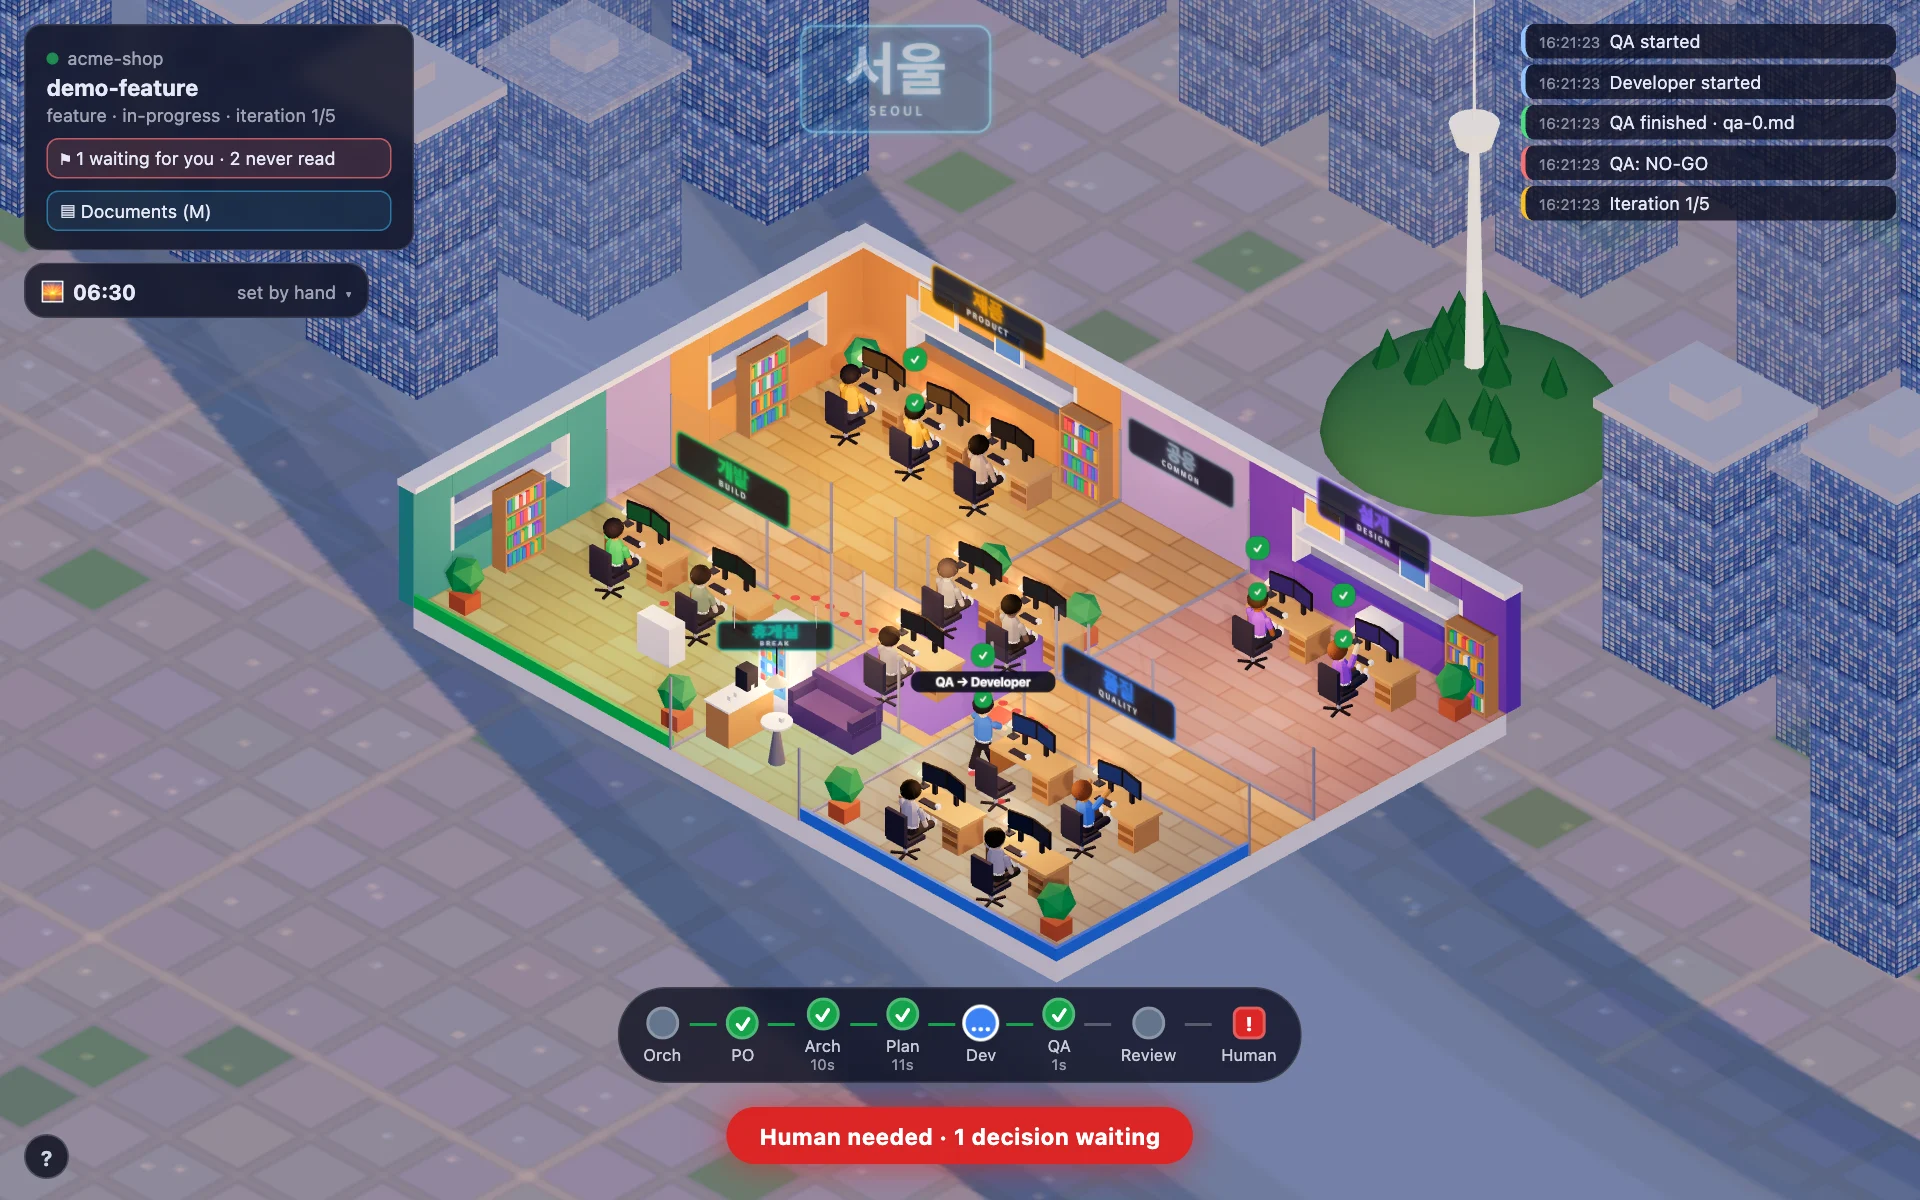
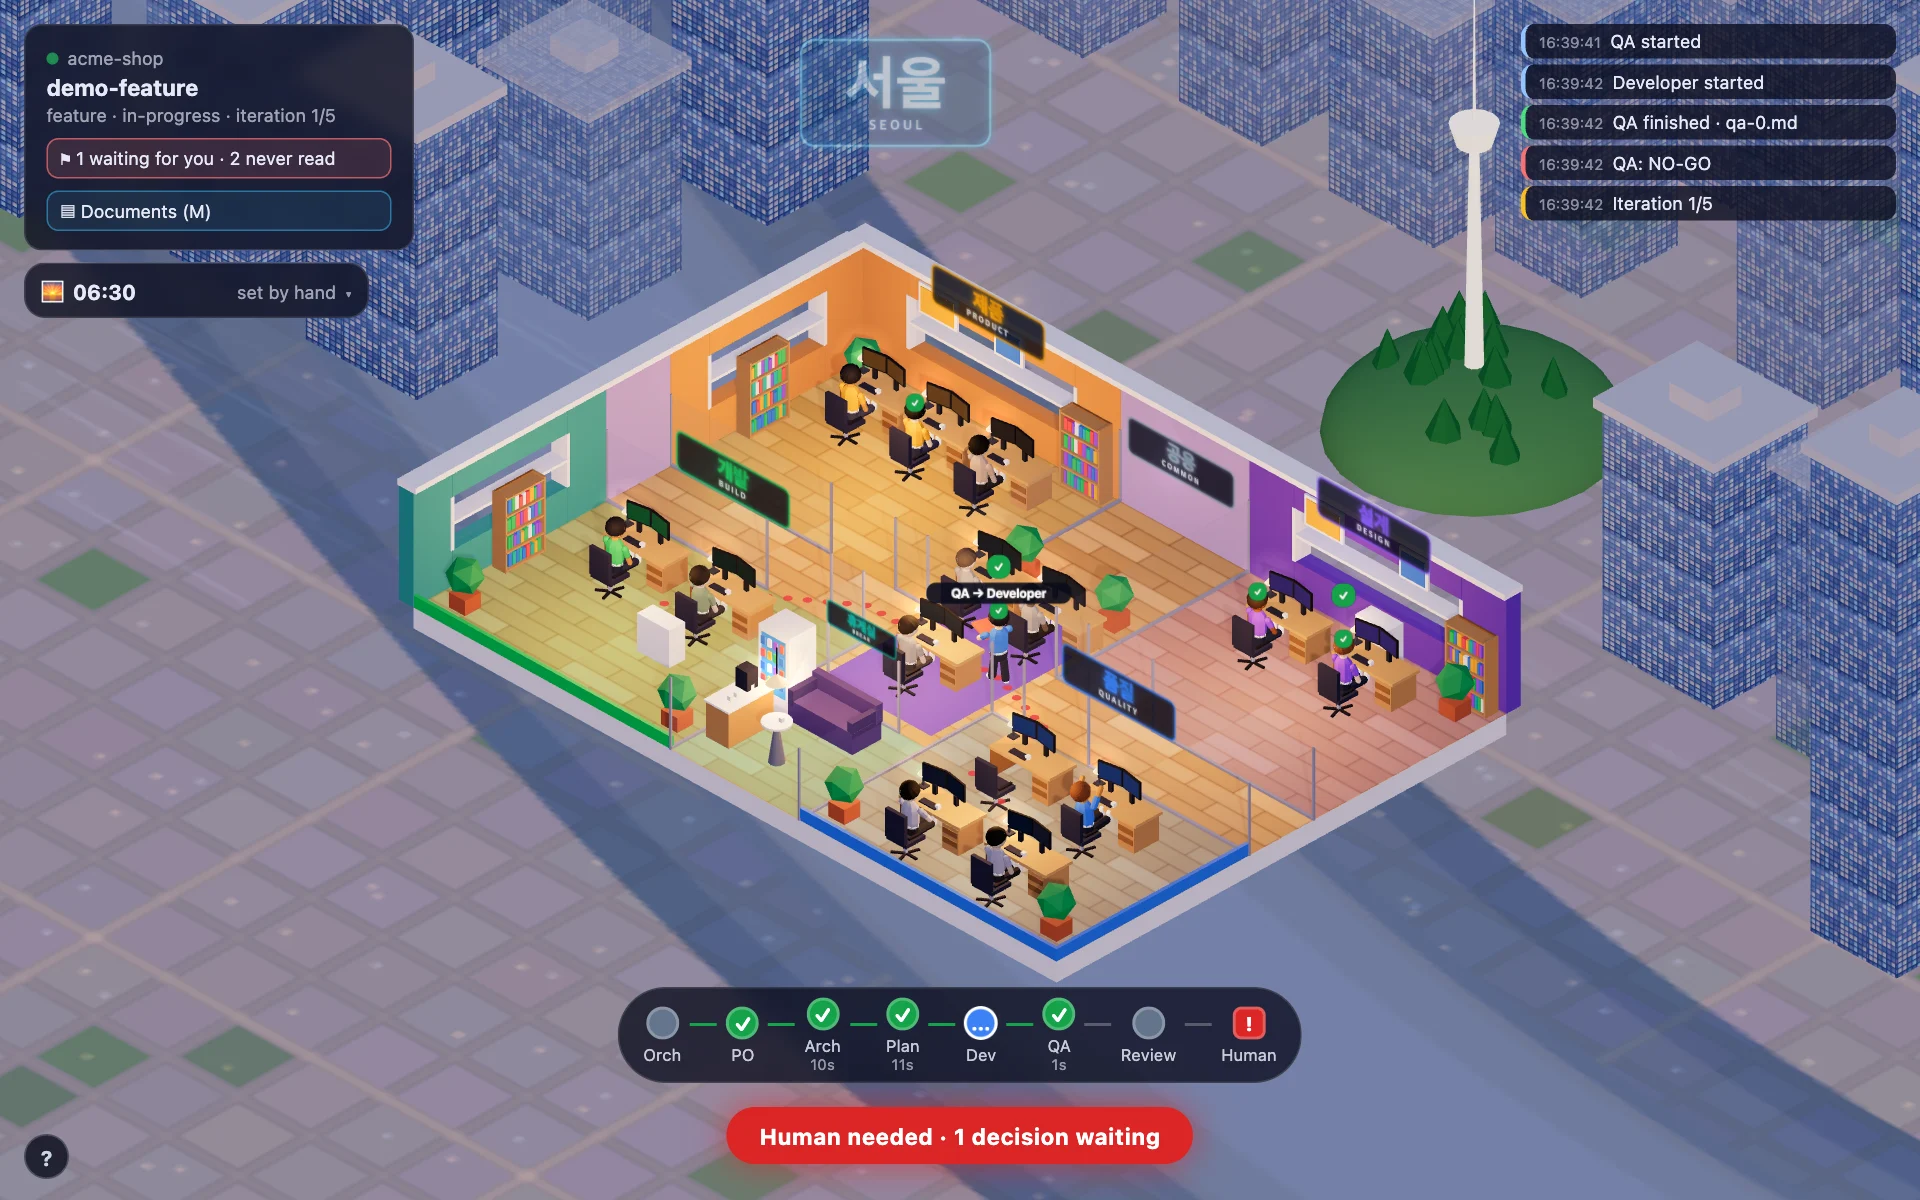
Office floor: move the hub's desks away from the break room
- The hub's rows start 0.6 higher: about 0.95 between its last chair and the break room's glass, the corridor between the rows unchanged
- The two plants at the hub's north corners step back to make room
- Screenshots regenerated

diff --git a/tools/office/web/layout.js b/tools/office/web/layout.js
@@ -39,7 +39,7 @@ export const PARTITIONS = [
 ];
 
 // Where the furniture stands, so that scene.js draws it and the walkers go round it from the same numbers.
-export const PLANTS = [[0.8, 0.8], [11.4, 4.6], [8.6, 4.6], [0.8, 13.2], [19.2, 13.2], [19.2, 0.8], [7.4, 13.2], [12.6, 13.2]];
+export const PLANTS = [[0.8, 0.8], [11.4, 3.6], [8.6, 3.6], [0.8, 13.2], [19.2, 13.2], [19.2, 0.8], [7.4, 13.2], [12.6, 13.2]];
 export const BOOKSHELVES = [[[7.2, 0.28], "z"], [[19.2, 0.28], "z"], [[0.28, 11], "x"], [[0.28, 3.4], "x"]];
 export const CABINETS = [[5.2, 11.5], [16.4, 0.35]];
 export const SOFA = { x: 10, z: 10.9, w: 2.0 }; // its back to the hub, facing the break room
@@ -95,6 +95,9 @@ export function createLayout(roleTeams) {
   // quality, whose doorway is behind its desks, seats two a row too, so that aisles lead to every chair.
   const PER_ROW = { common: 2, quality: 2 };
   const ROW_STEP = 2.8; // the depth of a row: desk, chair and the room to walk past
+  // How far the first chair sits from the back of the room. The hub starts higher, which leaves room
+  // between its second row and the break room's glass.
+  const FIRST_SEAT = { common: 1.8 };
   const DESK_W = 1.95; // a desk and a hand of room
   const seats = new Map();
   for (const [team, roles] of Object.entries(byTeam)) {
@@ -110,7 +113,8 @@ export function createLayout(roleTeams) {
         : room.x + (room.w * (2 * slot + 1)) / (2 * inRow);
       // Desk against the back of the room, the agent sits south of it facing north (-z):
       // the camera sees the agent's back and the screen over the desk.
-      const seat = { x, z: room.z + 2.4 + row * ROW_STEP, deskZ: room.z + 1.4 + row * ROW_STEP, rotY: Math.PI, team, row };
+      const z = room.z + (FIRST_SEAT[team] ?? 2.4) + row * ROW_STEP;
+      const seat = { x, z, deskZ: z - 1, rotY: Math.PI, team, row };
       seats.set(role, seat);
     });
   }
